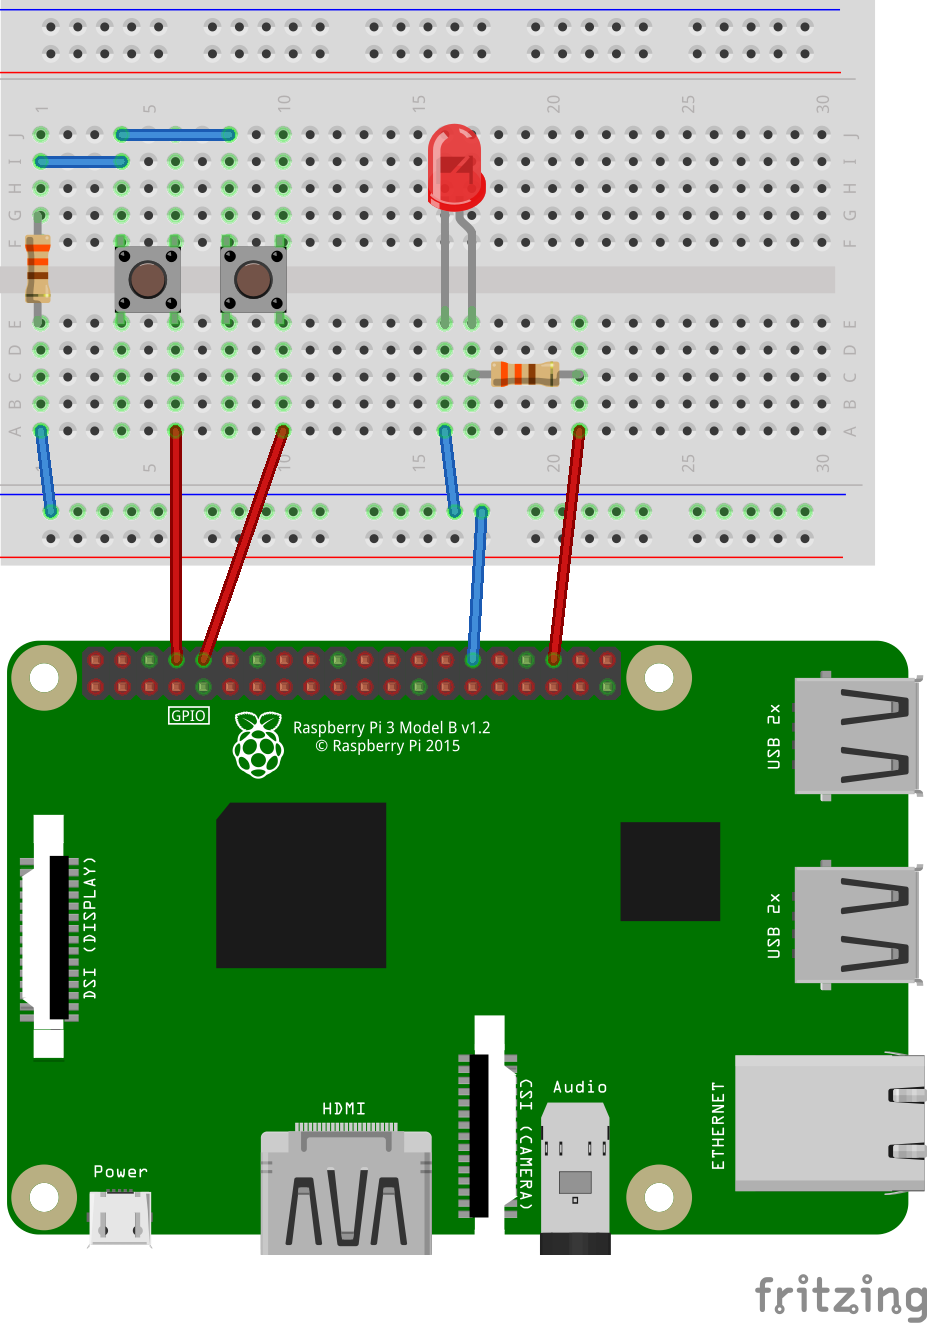
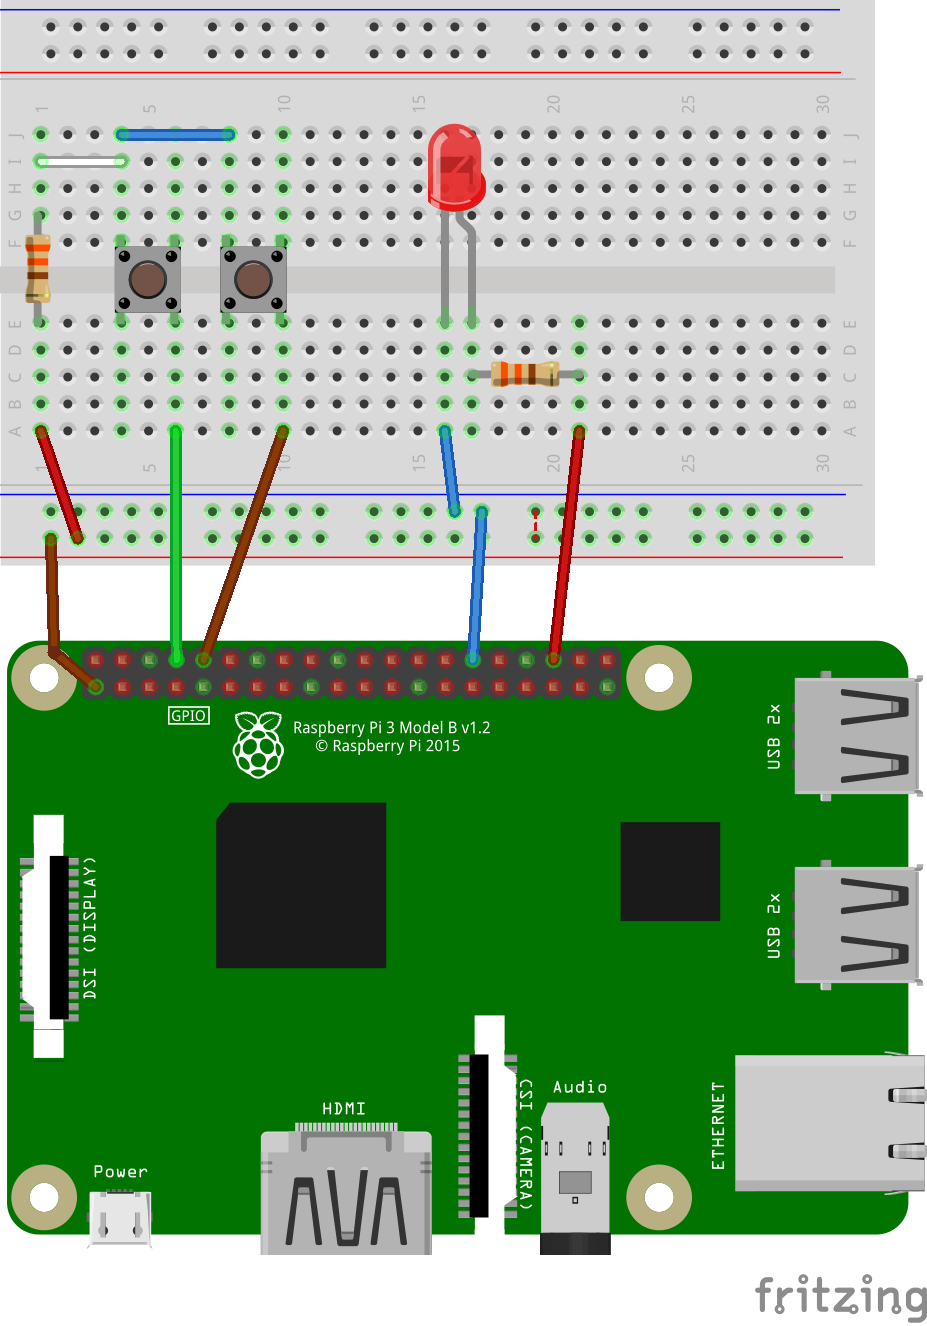
Some updates for exercise 2

diff --git a/code/button_integration.py b/code/button_integration.py
@@ -1,0 +1,48 @@
+#!/usr/bin/python
+
+import paho.mqtt.client as mqtt
+import RPi.GPIO as GPIO
+import time
+import json
+
+topic_read="obj/tuc/button"
+button_on = 14
+button_off = 15
+
+client = mqtt.Client()
+client.connect("localhost")
+
+GPIO.setmode(GPIO.BCM) 
+
+last_pressed = 0
+last_pressed_button = 0
+
+def button_callback(gpio):
+    global last_pressed
+    global last_pressed_button
+    now=time.time()
+
+
+    # Ignore bounce and repeated press on the same button
+    if now - last_pressed < 0.1 or last_pressed_button == gpio:
+        return
+    
+    if gpio == button_on:
+        client.publish(topic_read, '{"value":1, "timestamp":' + str(now) + '}')
+        print("Button ON pushed! ")
+    elif gpio == button_off:
+        client.publish(topic_read, '{"value":0, "timestamp":' + str(now) + '}')
+        print("Button OFF pushed! ")
+        
+    last_pressed = now
+    last_pressed_button = gpio
+
+
+
+GPIO.setup(14, GPIO.IN, pull_up_down=GPIO.PUD_DOWN)
+GPIO.add_event_detect(14,GPIO.RISING,callback=button_callback)
+
+GPIO.setup(15, GPIO.IN, pull_up_down=GPIO.PUD_DOWN)
+GPIO.add_event_detect(15,GPIO.RISING,callback=button_callback)
+
+client.loop_forever()

diff --git a/code/buttons.py b/code/buttons.py
@@ -1,0 +1,28 @@
+import RPi.GPIO as GPIO
+import time
+
+GPIO.setmode(GPIO.BCM) 
+
+last_pressed = {};
+last_pressed[14]=0;
+last_pressed[15]=0;
+
+def button_callback(gpio):
+    now=time.time()
+    if now - last_pressed[gpio] < 0.1:
+        return
+
+
+    print("Button was pushed! " + str(gpio))
+    last_pressed[gpio] = now
+
+GPIO.setup(14, GPIO.IN, pull_up_down=GPIO.PUD_DOWN)
+GPIO.add_event_detect(14,GPIO.RISING,callback=button_callback)
+
+GPIO.setup(15, GPIO.IN, pull_up_down=GPIO.PUD_DOWN)
+GPIO.add_event_detect(15,GPIO.RISING,callback=button_callback)
+
+print("Press the buttons on you board.")
+message = input("Then press enter to quit\n")
+
+GPIO.cleanup()

diff --git a/code/integration_v2.py b/code/integration_v2.py
@@ -25,11 +25,11 @@ def on_message(client, userdata, message):
         if payload["value"] == 0:
             print("Turning led off")
             GPIO.output(led,0)
-            client.publish(topic_read, '{"value":0, "timestamp":' + time.time() + '}')
+            client.publish(topic_read, '{"value":0, "timestamp":' + str(time.time()) + '}')
         else:
             print("Turning led on")
             GPIO.output(led,1)
-            client.publish(topic_read, '{"value":1, "timestamp":' + time.time() + '}')
+            client.publish(topic_read, '{"value":1, "timestamp":' + str(time.time()) + '}')
     else:
         print("Ignoring " + message.topic)
 
